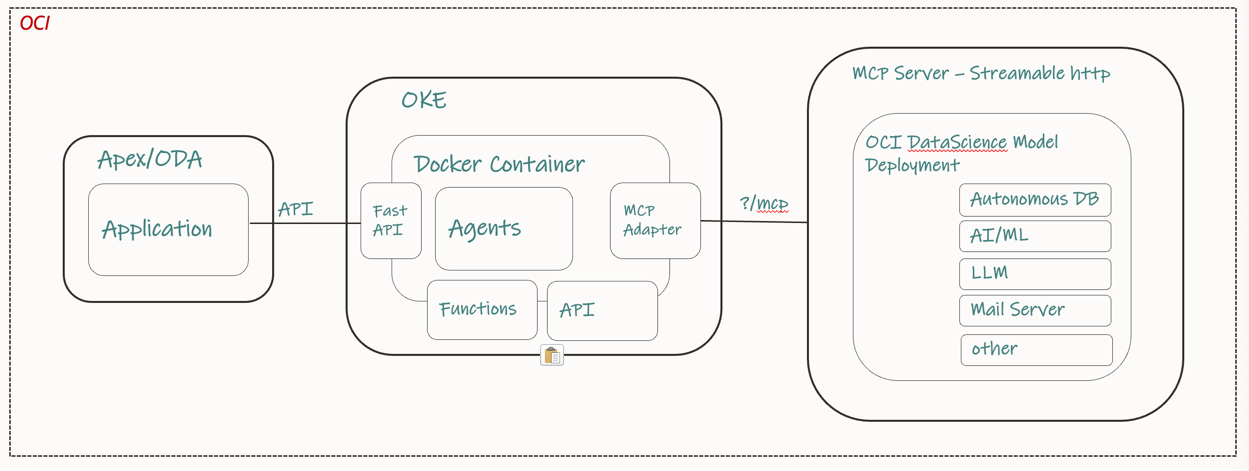
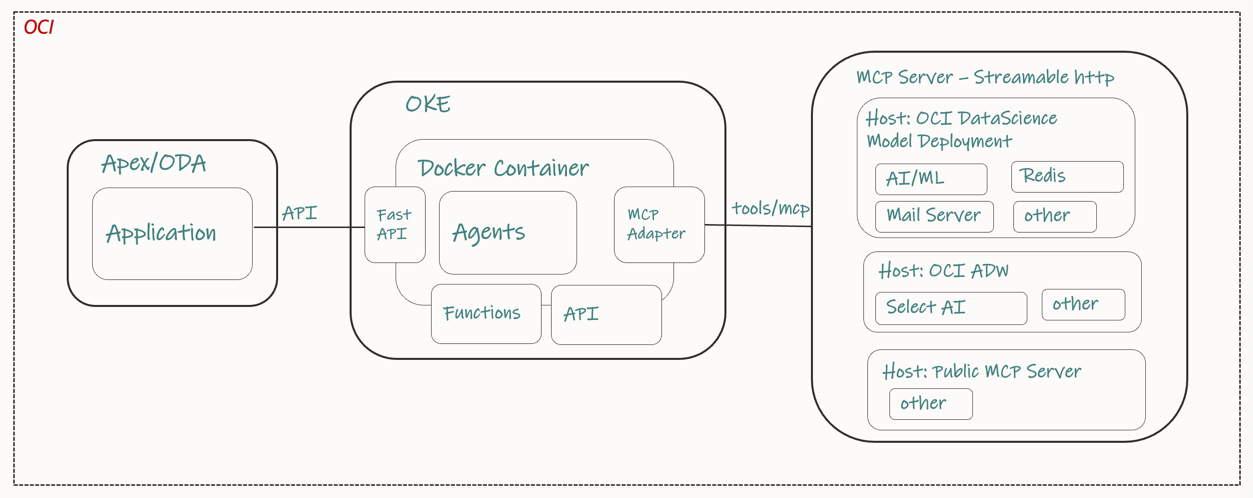
Concept on Topics added

diff --git a/readme.md b/readme.md
@@ -17,6 +17,55 @@ When the agent loop decides to call a hosted tool (like a RAG tool), that calls 
 When the agent loop decides to call the local function tools, the control is returned back to the ADK. The ADK calls your local function tools, and submits the function tool output back to Generative AI Agents, which then continues the next iteration of the agent loop.
 ![images/adk_arch.png](images/adk_arch.png)
 
+## Key Concepts of how the ADK Landing Zone is configured
+
+### Applications
+> An application is what gets deployed at the client side, for users or machines to interact with.
+> Apps can be exposed either as an API or a UI.
+
+### Agent Teams
+> A structured sequence of steps or actions that the AI Agent follows to accomplish a specific business task or answer a user query.
+Workflow patterns such as Supervisor and Swarm makes up an Agent Team.
+
+### Agents
+> Agents handles specific task and is equipped with specific skills that enables it to carry out task. Consider this as a worker behind the scenes to perform actual actions or task that the agent is suppose to deliver to the user.
+Agent can connect to other systems, API's or tools, which allows the agent to utilize information from different data sources or business functions.
+
+### Prompt Engineering
+> Topics: 
+>> Topics define the scope, intent and purpose of an Agent. Topics further refine the Agent's scope and purpose - this is added to the system prompt in instructing an LLM 
+Use a consistent pather
+Subject Area >> Intent Recognition >> Conversational Flow >> Tool/System integrations >> Contextual Responses
+
+> System Prompt:
+>> Each agent has a system prompt. The system prompt defines the Agents personas and capabilities. It establishes the tool it can access. It also describe how the Agent should think about achieving any goals or task for which it was designed.
+Use a consistent pattern : 
+CONTEXT >> ROLE >> OBJECTIVE >> FORMAT >> TONE / STYLE >> CONSTRAINTS
+
+### llm
+> One common place to configure all LLMs the agents are going to use.
+
+### METRO
+> MONITORING >> EVALUATION >> TRACING >> REPORTING > OBSERVABILITY
+
+### MCP Server - 
+
+#### The Model Context Protocol (MCP) is an open standard that enables developers to build secure, two‑way connections between their data sources and AI-powered tools, acting like a “USB‑C port” for AI models to access external context 
+
+> MCP Server 1: 
+    >> Deploy Custom functions as tools and make it available through MCP Server
+    >>Follow this instruction on how to deploy your tools (Custom Functions) into Oracle DataScience using MCP architecture
+https://blogs.oracle.com/ai-and-datascience/post/hosting-mcp-servers-on-oci-data-science
+
+> MCP Server 2:
+    >> Deploy Select AI based tools and make is available through OCI ADW
+    >> Reference link goes here ....
+
+### MCP Client - 
+>> Support for MCP client is available on ADK through installation of 'oci-2.154.1+preview.1.228'
+>> A sample code for MCP based agent can be found under
+>>  python3.13 -m src.agents.getinsights
+
 ### Configure your development environment
 
 ### Clone the repository
@@ -72,8 +121,8 @@ Change the config variables based on your agents requirements
     python3.13 -m src.examples.test_setup  
 
 ### Best practices to follow while building an agent. 
-#### Below, you will see how to build an agent called 'taxagent' that has 2 tools - RAG Tool and a CustomFunction.
-#### The examples demonstrates also all the steps required to achieve the final outcome - agents to answer tax related questions.
+#### Below, you will see an example of how to build an agent called 'taxagent' that has 2 tools - RAG Tool and a CustomFunction.
+#### The examples demonstrate also all the steps required to achieve the final outcome - agents to answer tax related questions.
 
 ![images/agents_deploy.png](images/agents_deploy.png)
 
@@ -85,11 +134,11 @@ CustomFunction -->
 
     python3.13 -m src.tools.custom_function_tools
 
-RAG Tool --> 
+RAG Tool (Pre-built tool available through OCI GenAI Agent Service --> 
 
     oci.addons.adk.tool.prebuilt import AgenticRagTool
 
-#### Step 2: "Defines the areas of expertise through instructions that set the boundaries and constraints for agent conversations and abilities.
+#### Step 2: Topic - Defines the areas of expertise through instructions that set the boundaries and constraints for agent conversations and abilities.
 > Topic: src/prompt_engineering/topics/tax_auditor.py
 Instructions: You are a specialized assistant designed to audit and explain tax amounts applied to business transactions.....
 
@@ -140,42 +189,7 @@ sample prompt : get tax m&e adjustment for entity 1000
 #### vision_instruct_tools : 
 > Convert Image to Text tool
 
-### Prompt Engineering
-> Topics: 
->> Topics define the scope, intent and purpose of an Agent. Topics further refine the Agent's scope and purpose - this is added to the system prompt in instructing an LLM 
-Use a consistent pather
-Subject Area >> Intent Recognition >> Conversational Flow >> Tool/System integrations >> Contextual Responses
 
-> System Prompt:
->> Each agent has a system prompt. The system prompt defines the Agents personas and capabilities. It establishes the tool it can access. It also describe how the Agent should think about achieving any goals or task for which it was designed.
-Use a consistent pattern : 
-CONTEXT >> ROLE >> OBJECTIVE >> FORMAT >> TONE / STYLE >> CONSTRAINTS
-
-### Agents
-> Agents handles specific task and is equipped with specific skills that enables it to carry out task. Consider this as a worker behind the scenes to perform actual actions or task that the agent is suppose to deliver to the user.
-Agent can connect to other systems, API's or tools, which allows the agent to utilize information from different data sources or business functions.
-
-### Agent Teams
-> A structured sequence of steps or actions that the AI Agent follows to accomplish a specific business task or answer a user query.
-Workflow patterns such as Supervisor and Swarm makes up an Agent Team.
-
-### Applications
-> An application is what gets deployed at the client side, for users or machines to interact with.
-> Apps can be exposed either as an API or a UI.
-
-### llm
-> One common place to configure all LLMs the application is going to leverage.
-
-### METRO
-> MONITORING >> EVALUATION >> TRACING >> REPORTING > OBSERVABILITY
-
-### MCP Server - 
-Follow this instruction on how to deploy your tools into Oracle DataScience using MCP architecture
-
-https://blogs.oracle.com/ai-and-datascience/post/hosting-mcp-servers-on-oci-data-science
-
-### MCP Client - 
-oci-2.154.1+preview.1.228
 
 ### Deploying your ADK as a package into a Docker Container (e.g OKE)
 
